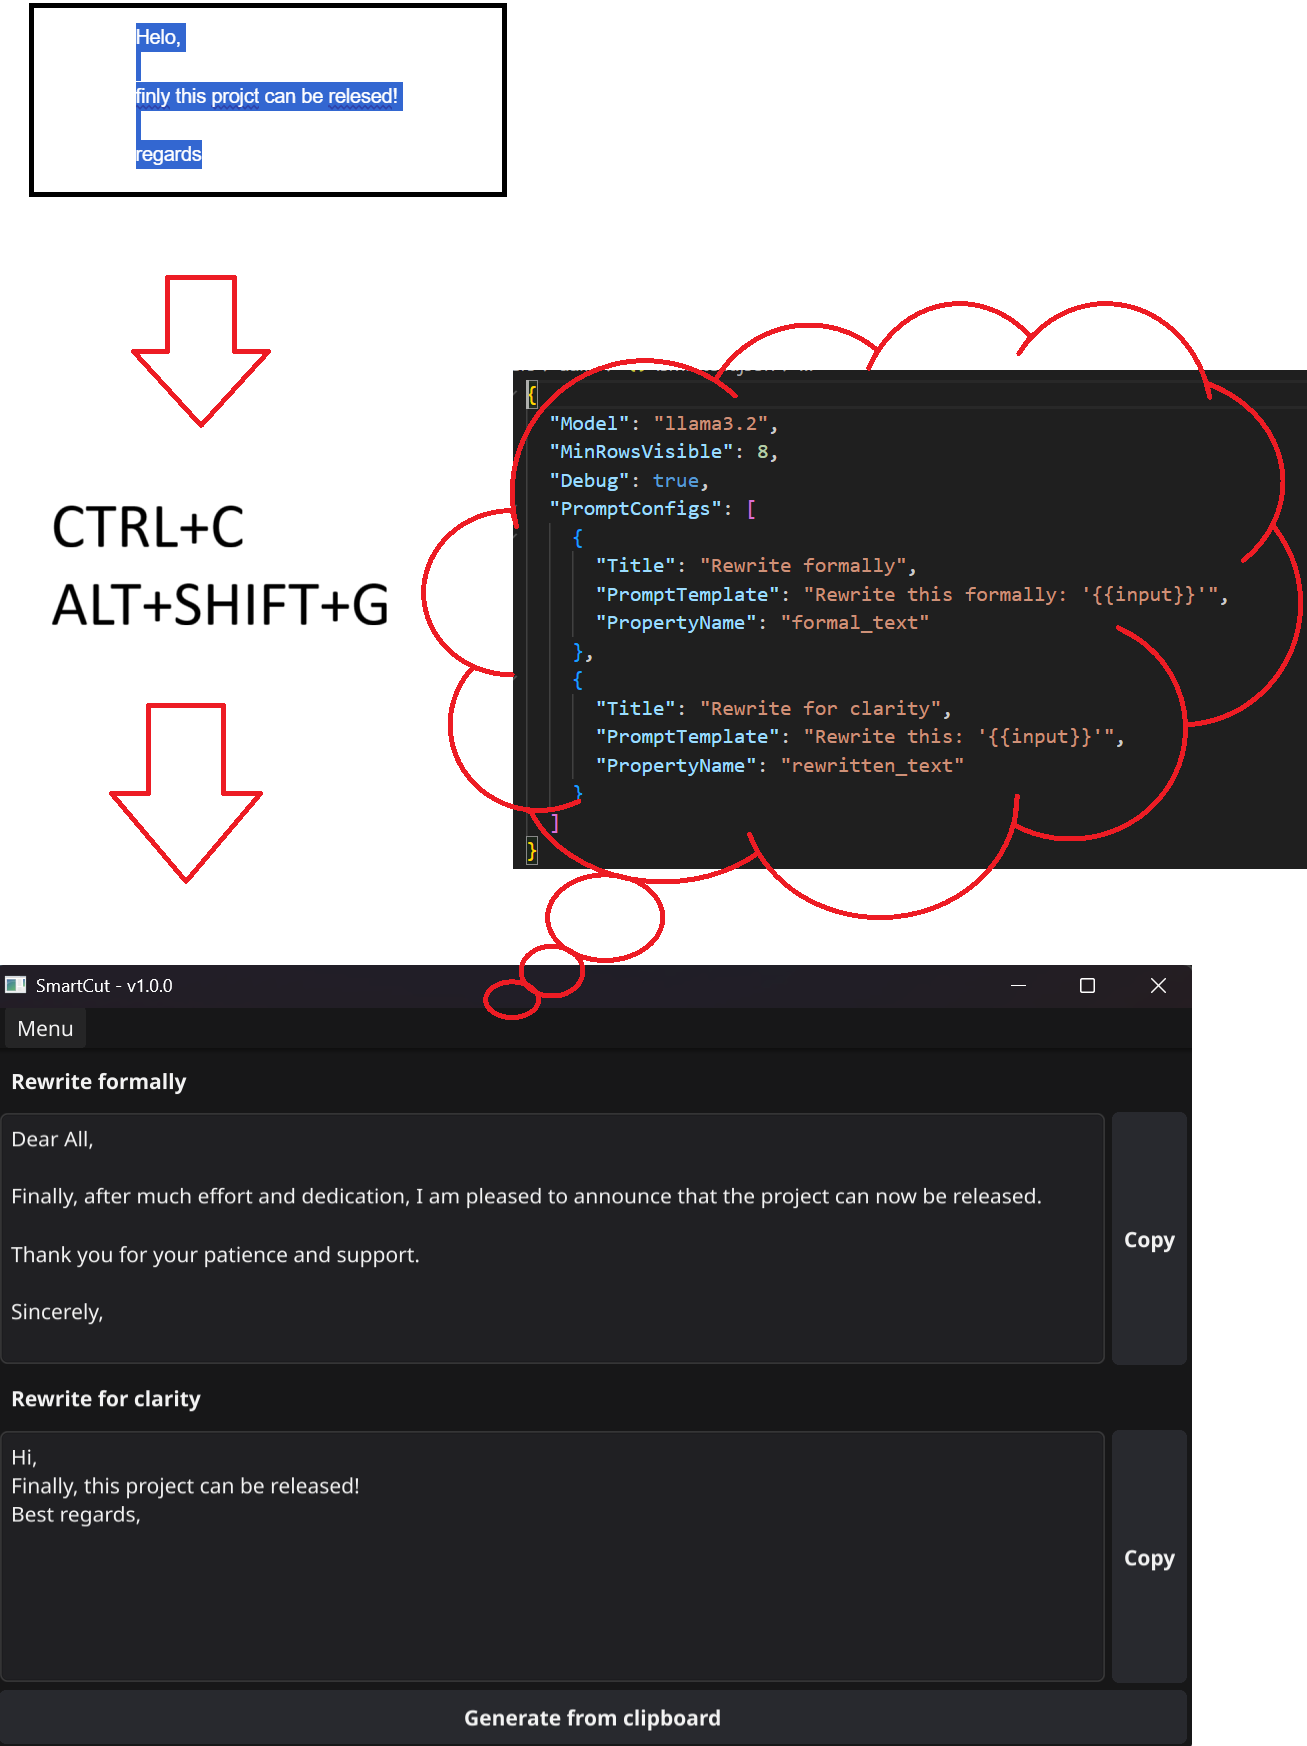
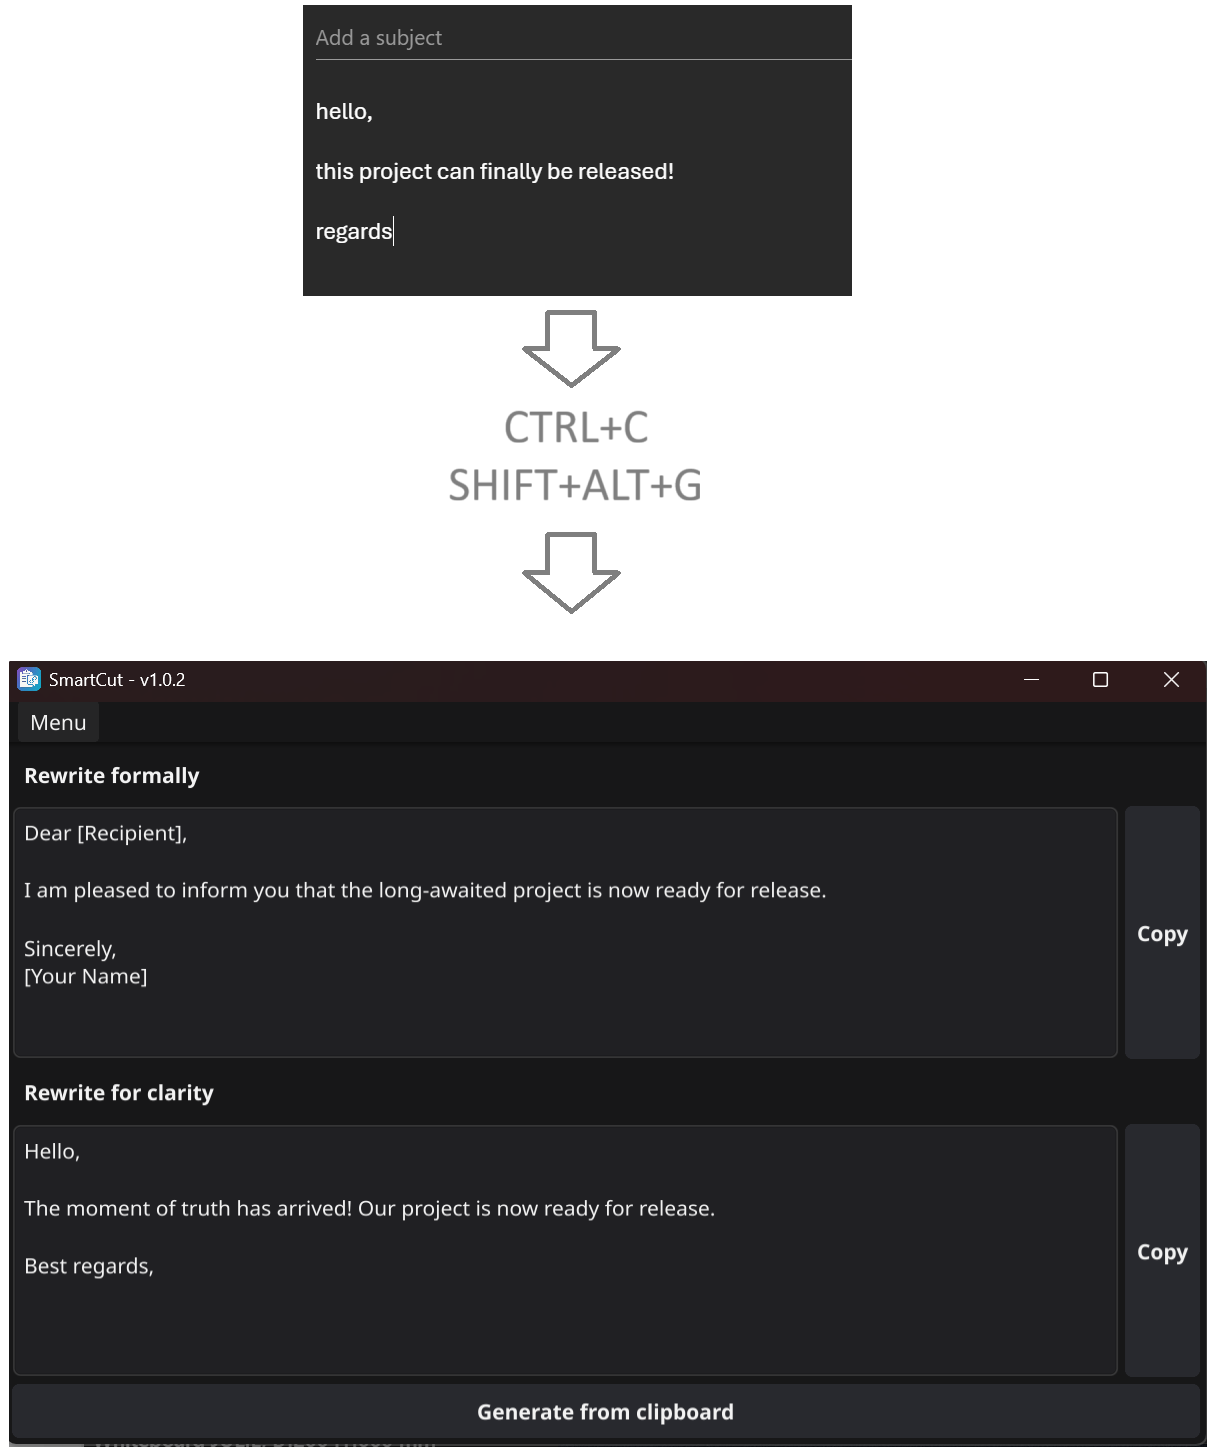
Update demo

diff --git a/README.md b/README.md
@@ -24,7 +24,13 @@ I created this project because I frequently reuse the same prompts throughout my
 2. Download and extract the latest zip.  
 3. Run the SmartCut binary - it works out of the box.
 
-## Example usage
+## Example
+
+Example configuration:
+
+![Demo config](images/config_1.png)
+
+Example usage:
 
 ![Demo](images/demo.png)
 
